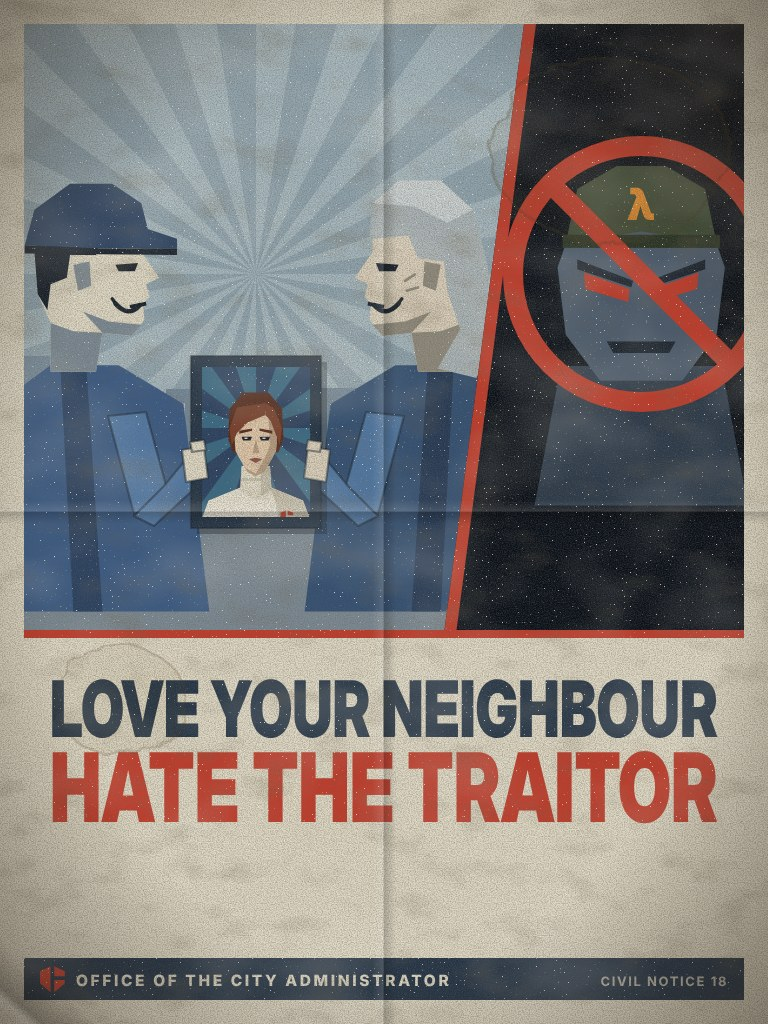
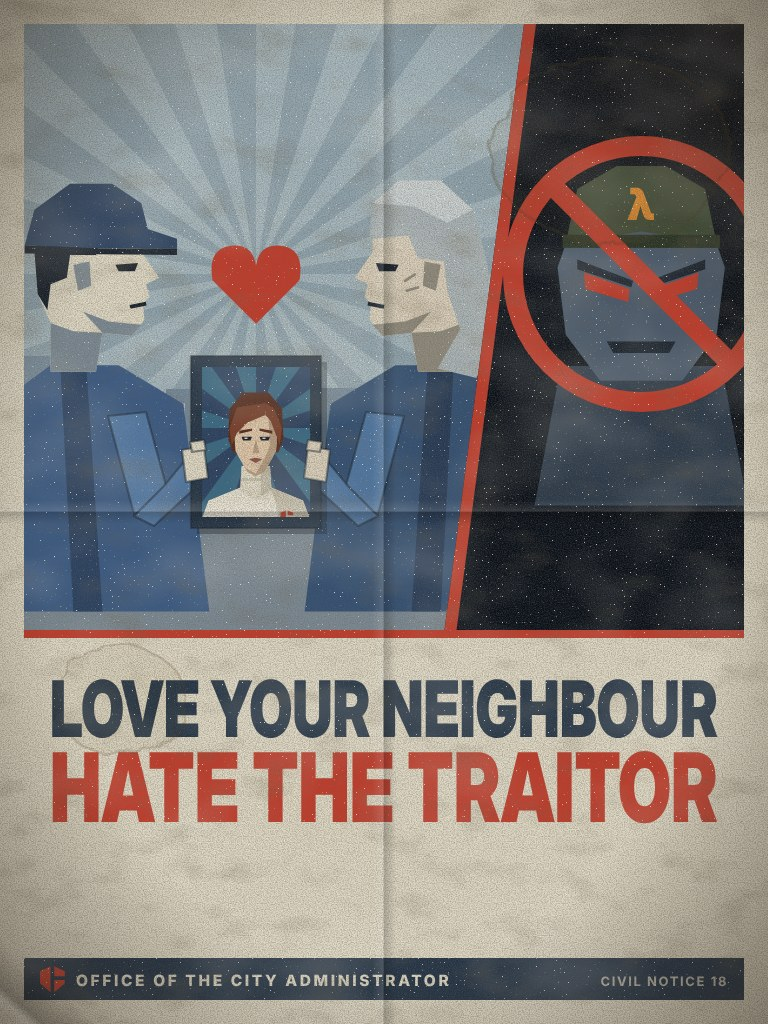
Slogan poster: neutral faces, and a heart above the Administrator's portrait
Claude-Session: https://claude.ai/code/session_01Y8SXQorFoe55U3GQd1K7aN

Changed region(s): [[0.25, 0.2188, 0.4062, 0.3125], [0.5, 0.2812, 0.5312, 0.3125], [0.1562, 0.2812, 0.1875, 0.3125]]

diff --git a/_dev/posters/slogan.js b/_dev/posters/slogan.js
@@ -8,13 +8,13 @@ ART.neighbour = () => {
   // (a sky darker than their faces, so the faces have an edge)
   let s = R(0, 0, 720, 610, '#8fa3ad') + rays(232, 250, 40, 1000, '#a9bac0', 0, 360, 'opacity=".8"');
   s += skyline(470, '#74899a', '#a9bac0', 22, 110) + R(0, 466, 720, 144, C.steel);
-  // the neighbours: the younger hands the older a framed portrait of the Administrator; both smile
+  // the neighbours: the younger hands the older a framed portrait of the Administrator, a heart above it
+  // (neutral faces: the owner, 14 November)
   const body = (t, bd) => P('M-34,270 L-16,152 L30,118 L72,118 L112,142 L128,270Z', t) + P('M36,118 L52,118 L62,270 L44,270Z', bd);
   const scarf = P('M16,52 L24,22 L44,4 L70,4 L86,18 L88,40 L64,38 L58,52 L42,54 L40,72 L32,96 L46,120 L22,126 L10,86Z', C.steel2) + P('M24,22 L44,4 L70,4 L86,18 L60,20 L40,30Z', '#c9d0d0');
-  const smile = L('M70,80 Q78,89 85,81', C.ink, 2.8) + L('M68,77 L71,81', C.ink, 2); // (kept inside the face: the lips end at x 88)
   const skinB = '#d8cdb8', shB = '#8f8a7c';
-  s += G('translate(-22,150) scale(1.62)', body(C.blue, C.blueD) + head({ cap: C.blueD }) + smile);
-  s += G('translate(488,150) scale(-1.62,1.62)', body('#335073', '#263a55') + head({ skin: skinB, sh: shB, hair: C.steel2 }) + scarf + smile + L('M60,62 L66,66 M58,70 L65,72', shB, 1.6));
+  s += G('translate(-22,150) scale(1.62)', body(C.blue, C.blueD) + head({ cap: C.blueD }));
+  s += G('translate(488,150) scale(-1.62,1.62)', body('#335073', '#263a55') + head({ skin: skinB, sh: shB, hair: C.steel2 }) + scarf + L('M60,62 L66,66 M58,70 L65,72', shB, 1.6));
   const O = `stroke="${C.ink}" stroke-width="2.2" stroke-opacity=".5" stroke-linejoin="round"`;
   // their arms (shoulder, elbow, wrist), out to the frame
   s += P('M380,392 L342,388 L318,476 L354,490Z', '#4f77a3', O) + P('M354,492 L324,462 L296,428 L282,454 L334,502Z', '#4f77a3', O);
@@ -22,6 +22,7 @@ ART.neighbour = () => {
   // the portrait
   s += R(173, 338, 130, 172, '#10161f', 'opacity=".35"') + R(167, 332, 130, 172, C.slate, O) + R(178, 343, 108, 150, C.blueD);
   s += `<clipPath id="gift"><rect x="178" y="343" width="108" height="150"/></clipPath><g clip-path="url(#gift)">` + rays(232, 404, 20, 240, C.cyan, 0, 360, 'opacity=".3"') + G('translate(168,352) scale(0.75)', adminBust({ pin: C.red })) + '</g>';
+  s += G('translate(232,262) scale(1.45)', P('M0,26 L-30,-4 Q-34,-28 -14,-28 Q-2,-28 0,-14 Q2,-28 14,-28 Q34,-28 30,-4Z', C.red));
   // his hand letting go of it, hers taking it
   s += P('M158,426 L180,422 L184,454 L162,458Z', C.paper, O) + P('M166,418 L180,416 L182,426 L168,428Z', C.paper, O);
   s += P('M306,426 L284,422 L280,454 L302,458Z', skinB, O) + P('M298,418 L284,416 L282,426 L296,428Z', skinB, O);

diff --git a/POSTER_BRIEF.md b/POSTER_BRIEF.md
@@ -95,4 +95,4 @@ Some plain curfew posters show a dream's poster instead (`docs/features/dream-po
 
 ## Her slogan
 
-`neighbour` (and `neighbour_x`, painted over: LIES): **LOVE YOUR NEIGHBOUR, HATE THE TRAITOR**, the owner's own slogan (14 November), with no smaller words. Two neighbours, both smiling: a younger man hands an older woman a framed portrait of the Administrator (the owner's idea, 14 November; no handshake, no heart); beside them, in the dark, a Resistance face struck out in red. It is on the Director of Propaganda's poster roll with the eleven above. Drawn by `_dev/posters/slogan.js`.
+`neighbour` (and `neighbour_x`, painted over: LIES): **LOVE YOUR NEIGHBOUR, HATE THE TRAITOR**, the owner's own slogan (14 November), with no smaller words. Two neighbours with calm faces: a younger man hands an older woman a framed portrait of the Administrator, a red heart above it between them (the owner's idea, 14 November; no handshake, no drawn smiles); beside them, in the dark, a Resistance face struck out in red. It is on the Director of Propaganda's poster roll with the eleven above. Drawn by `_dev/posters/slogan.js`.
